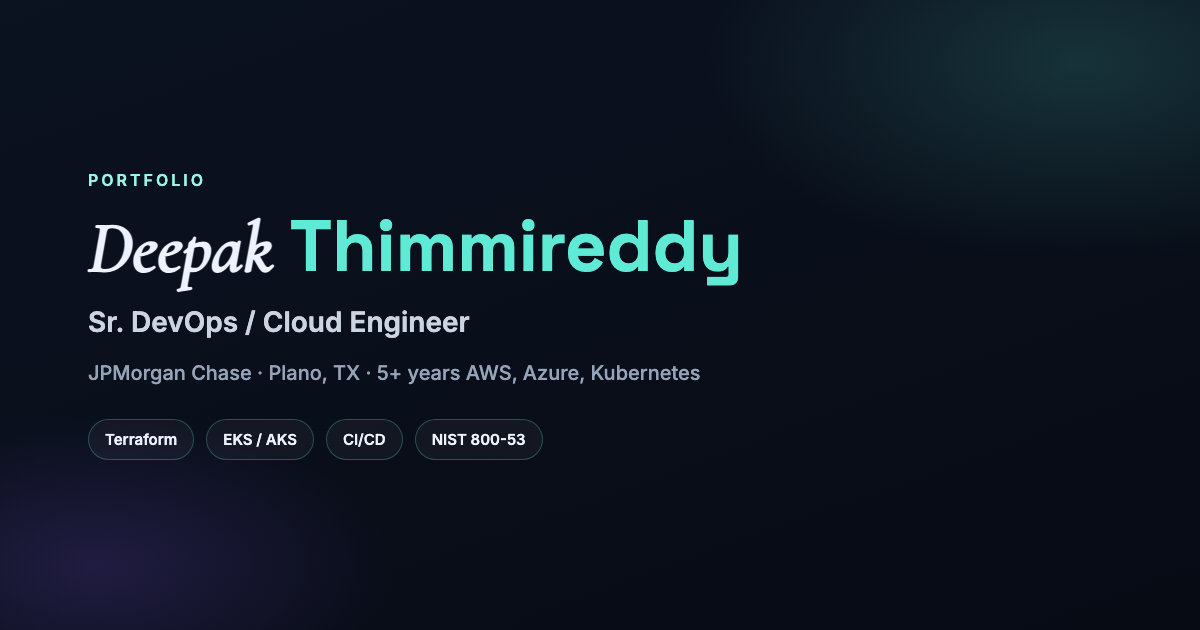
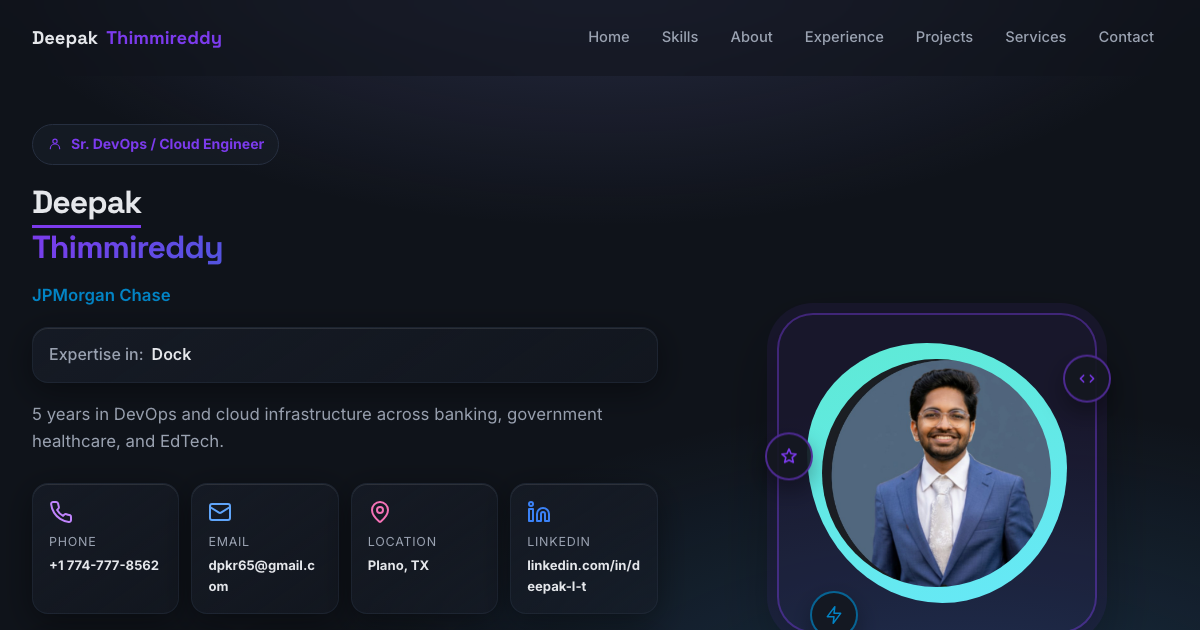
Give LinkedIn Inspector a fresh JPEG preview of the live hero.

diff --git a/index.html b/index.html
@@ -9,30 +9,30 @@
       content="Deepak Thimmireddy — Sr. DevOps / Cloud Engineer at JPMorgan Chase. AWS, Azure, Terraform, Kubernetes, and regulated platform operations."
     />
     <link rel="canonical" href="https://oneapppay.github.io/deepak-portfolio/" />
+    <link rel="image_src" href="https://oneapppay.github.io/deepak-portfolio/og-preview.jpg" />
     <meta property="og:type" content="website" />
+    <meta property="og:site_name" content="Deepak Thimmireddy" />
+    <meta property="og:locale" content="en_US" />
     <meta property="og:url" content="https://oneapppay.github.io/deepak-portfolio/" />
     <meta property="og:title" content="Deepak Thimmireddy · Sr. DevOps / Cloud Engineer" />
     <meta
       property="og:description"
       content="Sr. DevOps / Cloud Engineer at JPMorgan Chase. AWS, Azure, Terraform, Kubernetes, and regulated platform operations."
     />
-    <meta
-      property="og:image"
-      content="https://oneapppay.github.io/deepak-portfolio/og-image.png"
-    />
+    <meta property="og:image" content="https://oneapppay.github.io/deepak-portfolio/og-preview.jpg" />
+    <meta property="og:image:secure_url" content="https://oneapppay.github.io/deepak-portfolio/og-preview.jpg" />
+    <meta property="og:image:type" content="image/jpeg" />
     <meta property="og:image:width" content="1200" />
     <meta property="og:image:height" content="630" />
     <meta property="og:image:alt" content="Deepak Thimmireddy portfolio preview" />
+    <meta name="image" content="https://oneapppay.github.io/deepak-portfolio/og-preview.jpg" />
     <meta name="twitter:card" content="summary_large_image" />
     <meta name="twitter:title" content="Deepak Thimmireddy · Sr. DevOps / Cloud Engineer" />
     <meta
       name="twitter:description"
       content="Sr. DevOps / Cloud Engineer at JPMorgan Chase. AWS, Azure, Terraform, Kubernetes, and regulated platform operations."
     />
-    <meta
-      name="twitter:image"
-      content="https://oneapppay.github.io/deepak-portfolio/og-image.png"
-    />
+    <meta name="twitter:image" content="https://oneapppay.github.io/deepak-portfolio/og-preview.jpg" />
     <title>Deepak Thimmireddy · Sr. DevOps / Cloud Engineer</title>
     <link rel="preconnect" href="https://fonts.googleapis.com" />
     <link rel="preconnect" href="https://fonts.gstatic.com" crossorigin />
